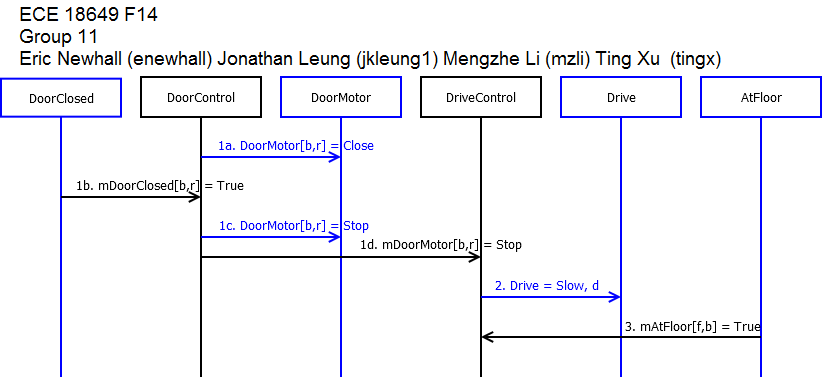
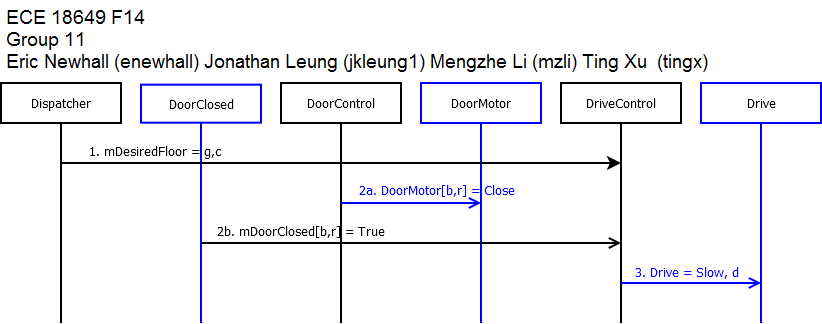
Fixed S8a SD8a

diff --git a/portfolio/scen_sd/scen_sd.html b/portfolio/scen_sd/scen_sd.html
@@ -492,17 +492,17 @@ doors close on a hallway. </h3>
 </ul>
 <h3> Scenario: </h3>
 <ol start="1" type="1">
+  <li>Dispatcher sets DesiredFloor of car to floor g</li>
   <li>Door[b,r] closes </li>
   <li>Car moves in direction d </li>
-  <li>Car arrives at floor y </li>
 </ol>
 <h3> Post-Conditions: </h3>
 <ul type="disc">
-  <li>Elevator is at floor <b>g</b>. </li>
+  <li>Elevator is moving to floor <b>g</b> in direction <b>d</b>. </li>
 </ul>
 <h3> Sequence Diagram: </h3>
 <p> <a href="sd8a.png"><img src="sd8a.png" alt="8A" name="_x0000_i1027"
- style="border: 0px solid ; width: 822px; height: 378px;"></a> </p>
+ style="border: 0px solid ; width: 822px; height: 324px;"></a> </p>
 <div align="center">
 <hr size="2" width="100%" align="center"> </div>
 <p> &nbsp; </p>
